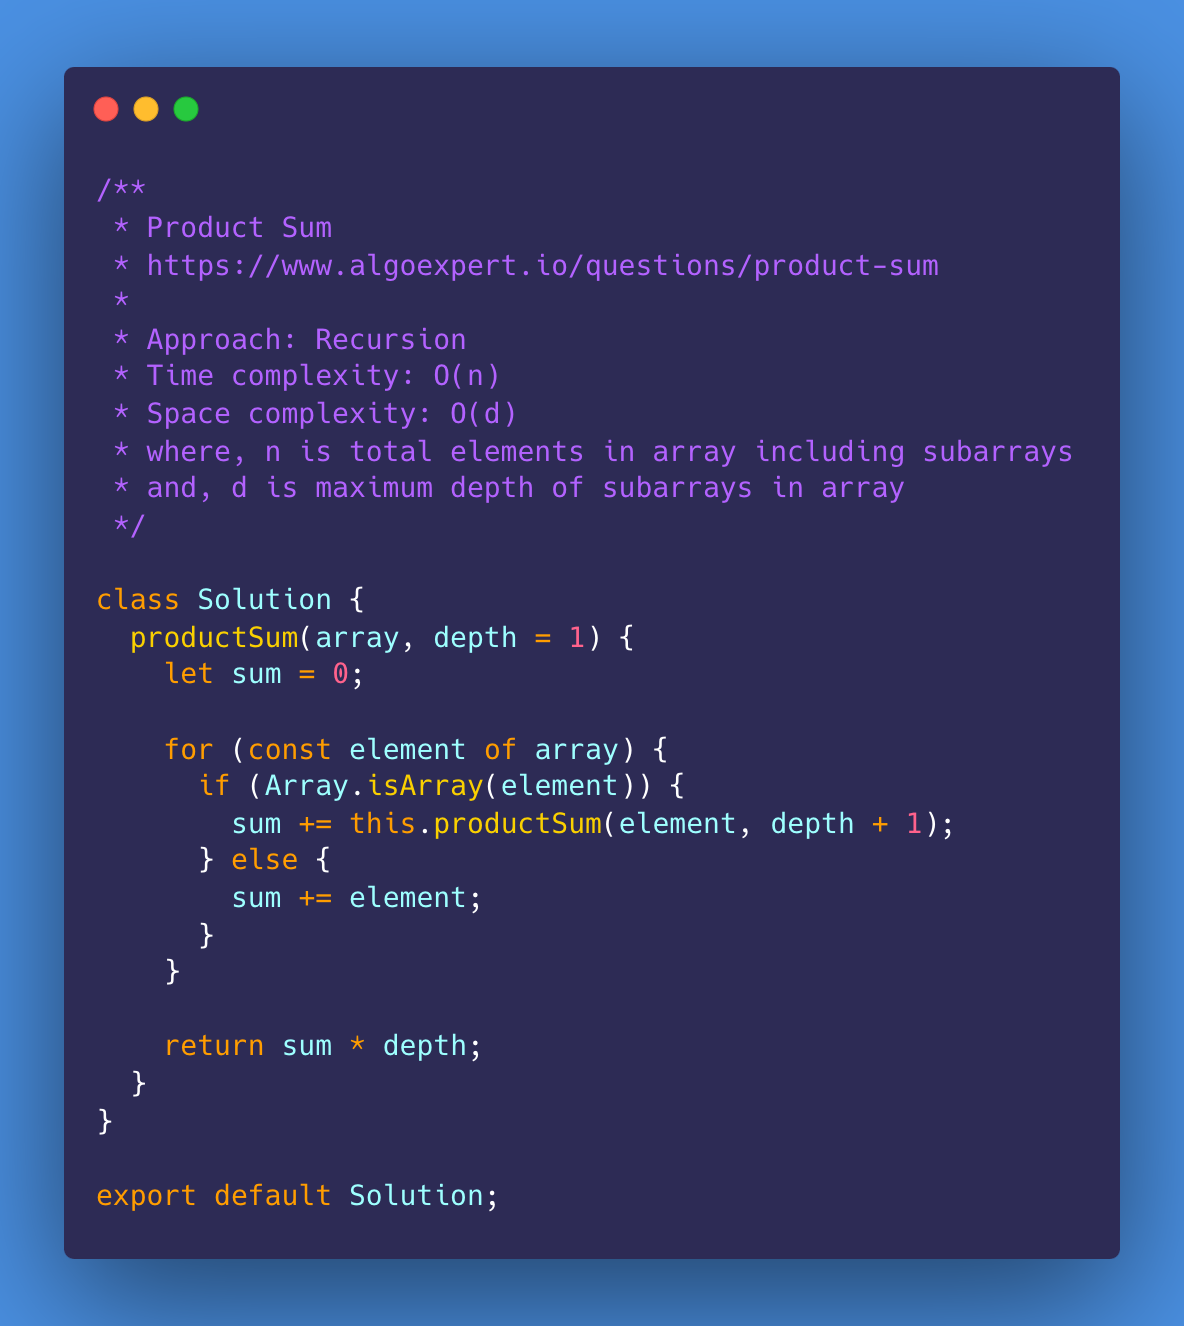
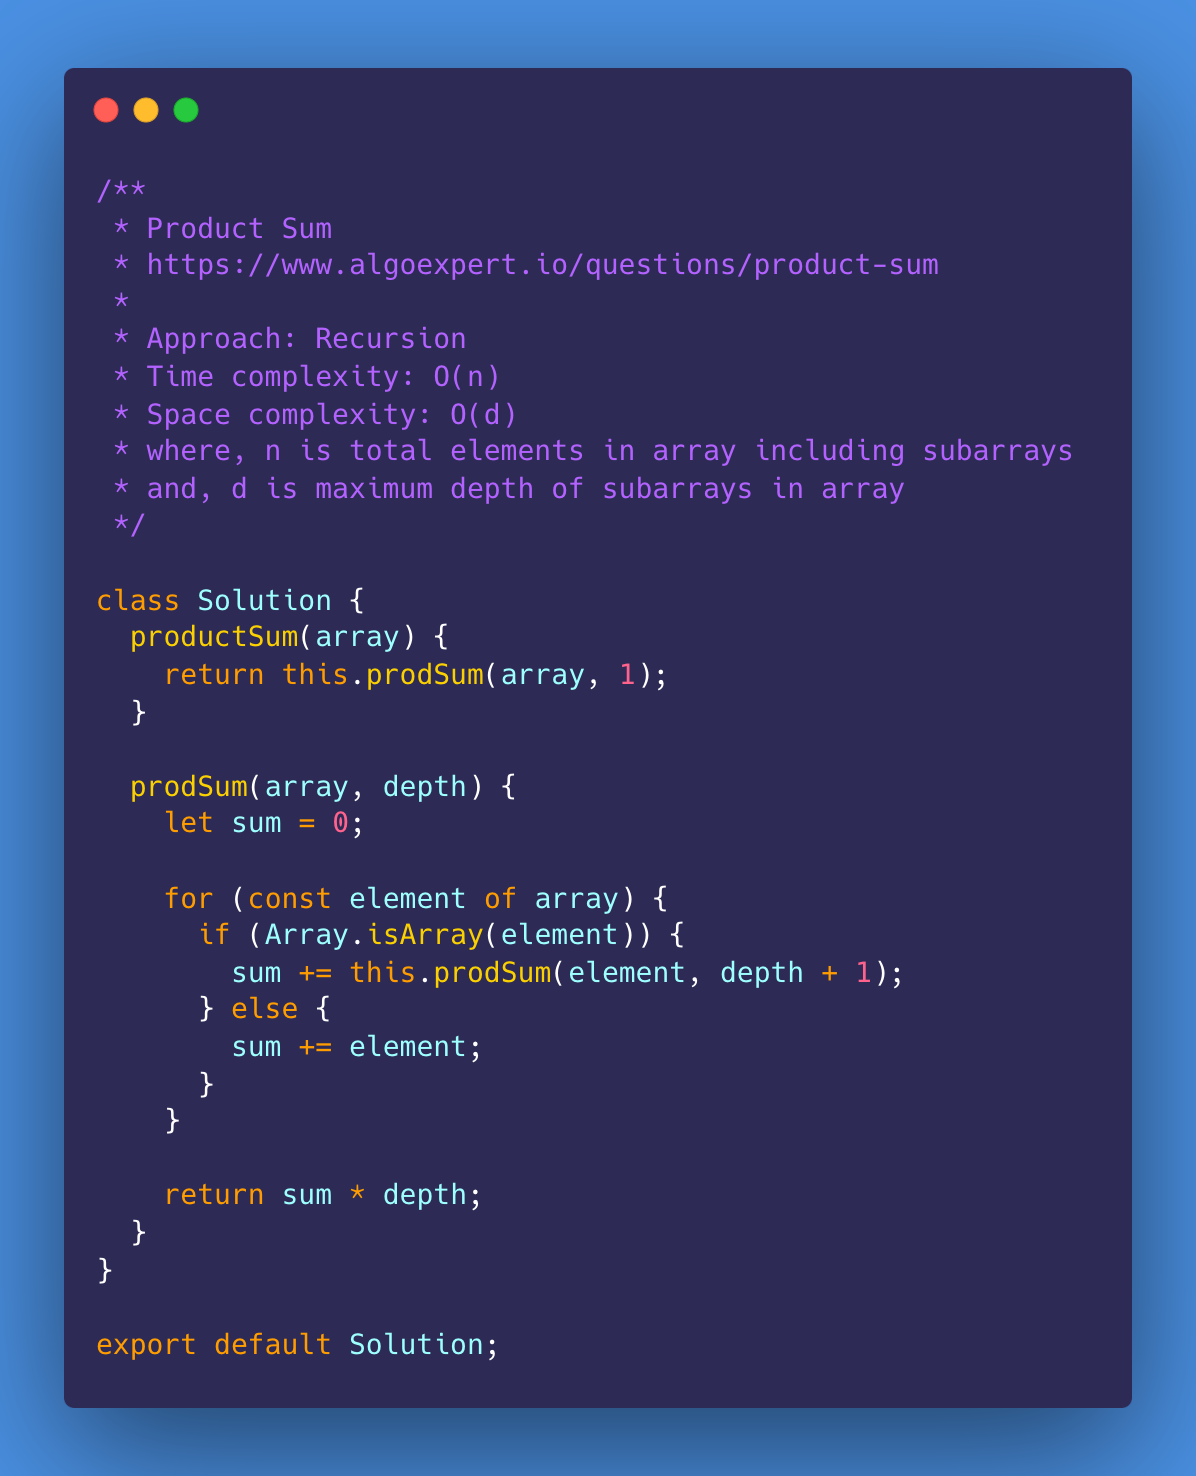
Product Sum updates

diff --git a/002-algoexpert/026-product-sum/001-solution/Solution.js b/002-algoexpert/026-product-sum/001-solution/Solution.js
@@ -10,12 +10,16 @@
  */
 
 class Solution {
-  productSum(array, depth = 1) {
+  productSum(array) {
+    return this.prodSum(array, 1);
+  }
+  
+  prodSum(array, depth) {
     let sum = 0;
 
     for (const element of array) {
       if (Array.isArray(element)) {
-        sum += this.productSum(element, depth + 1);
+        sum += this.prodSum(element, depth + 1);
       } else {
         sum += element;
       }
